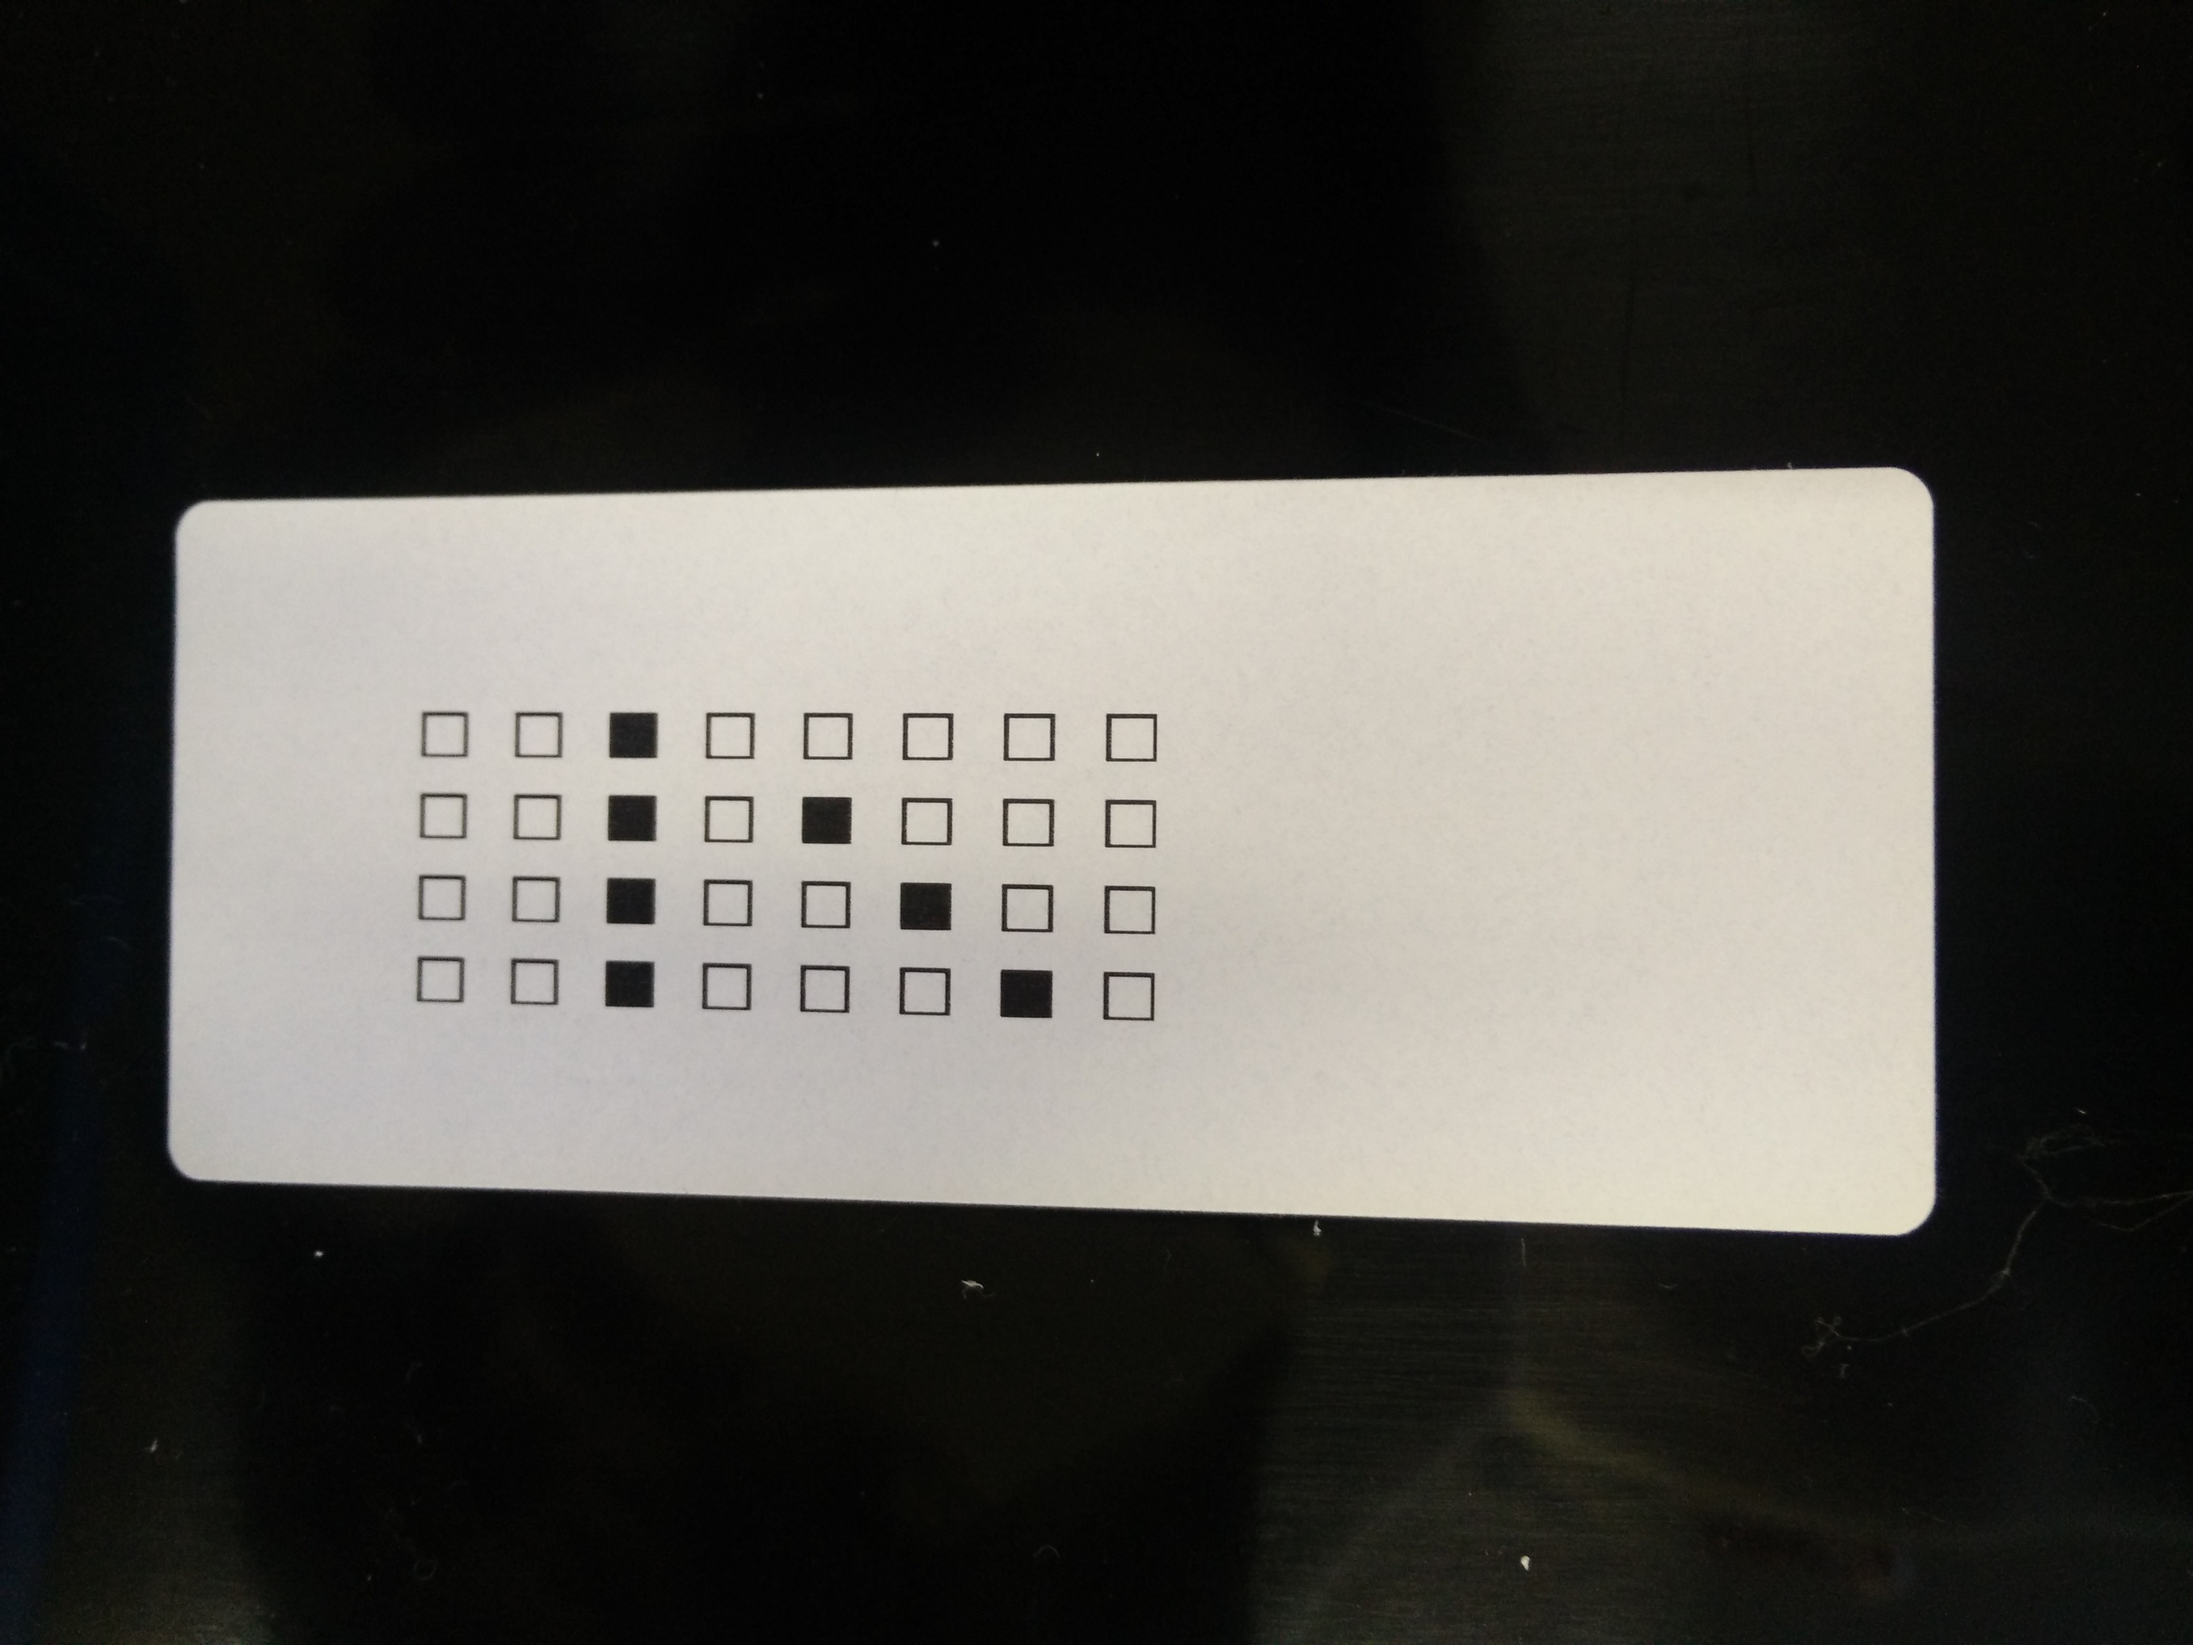
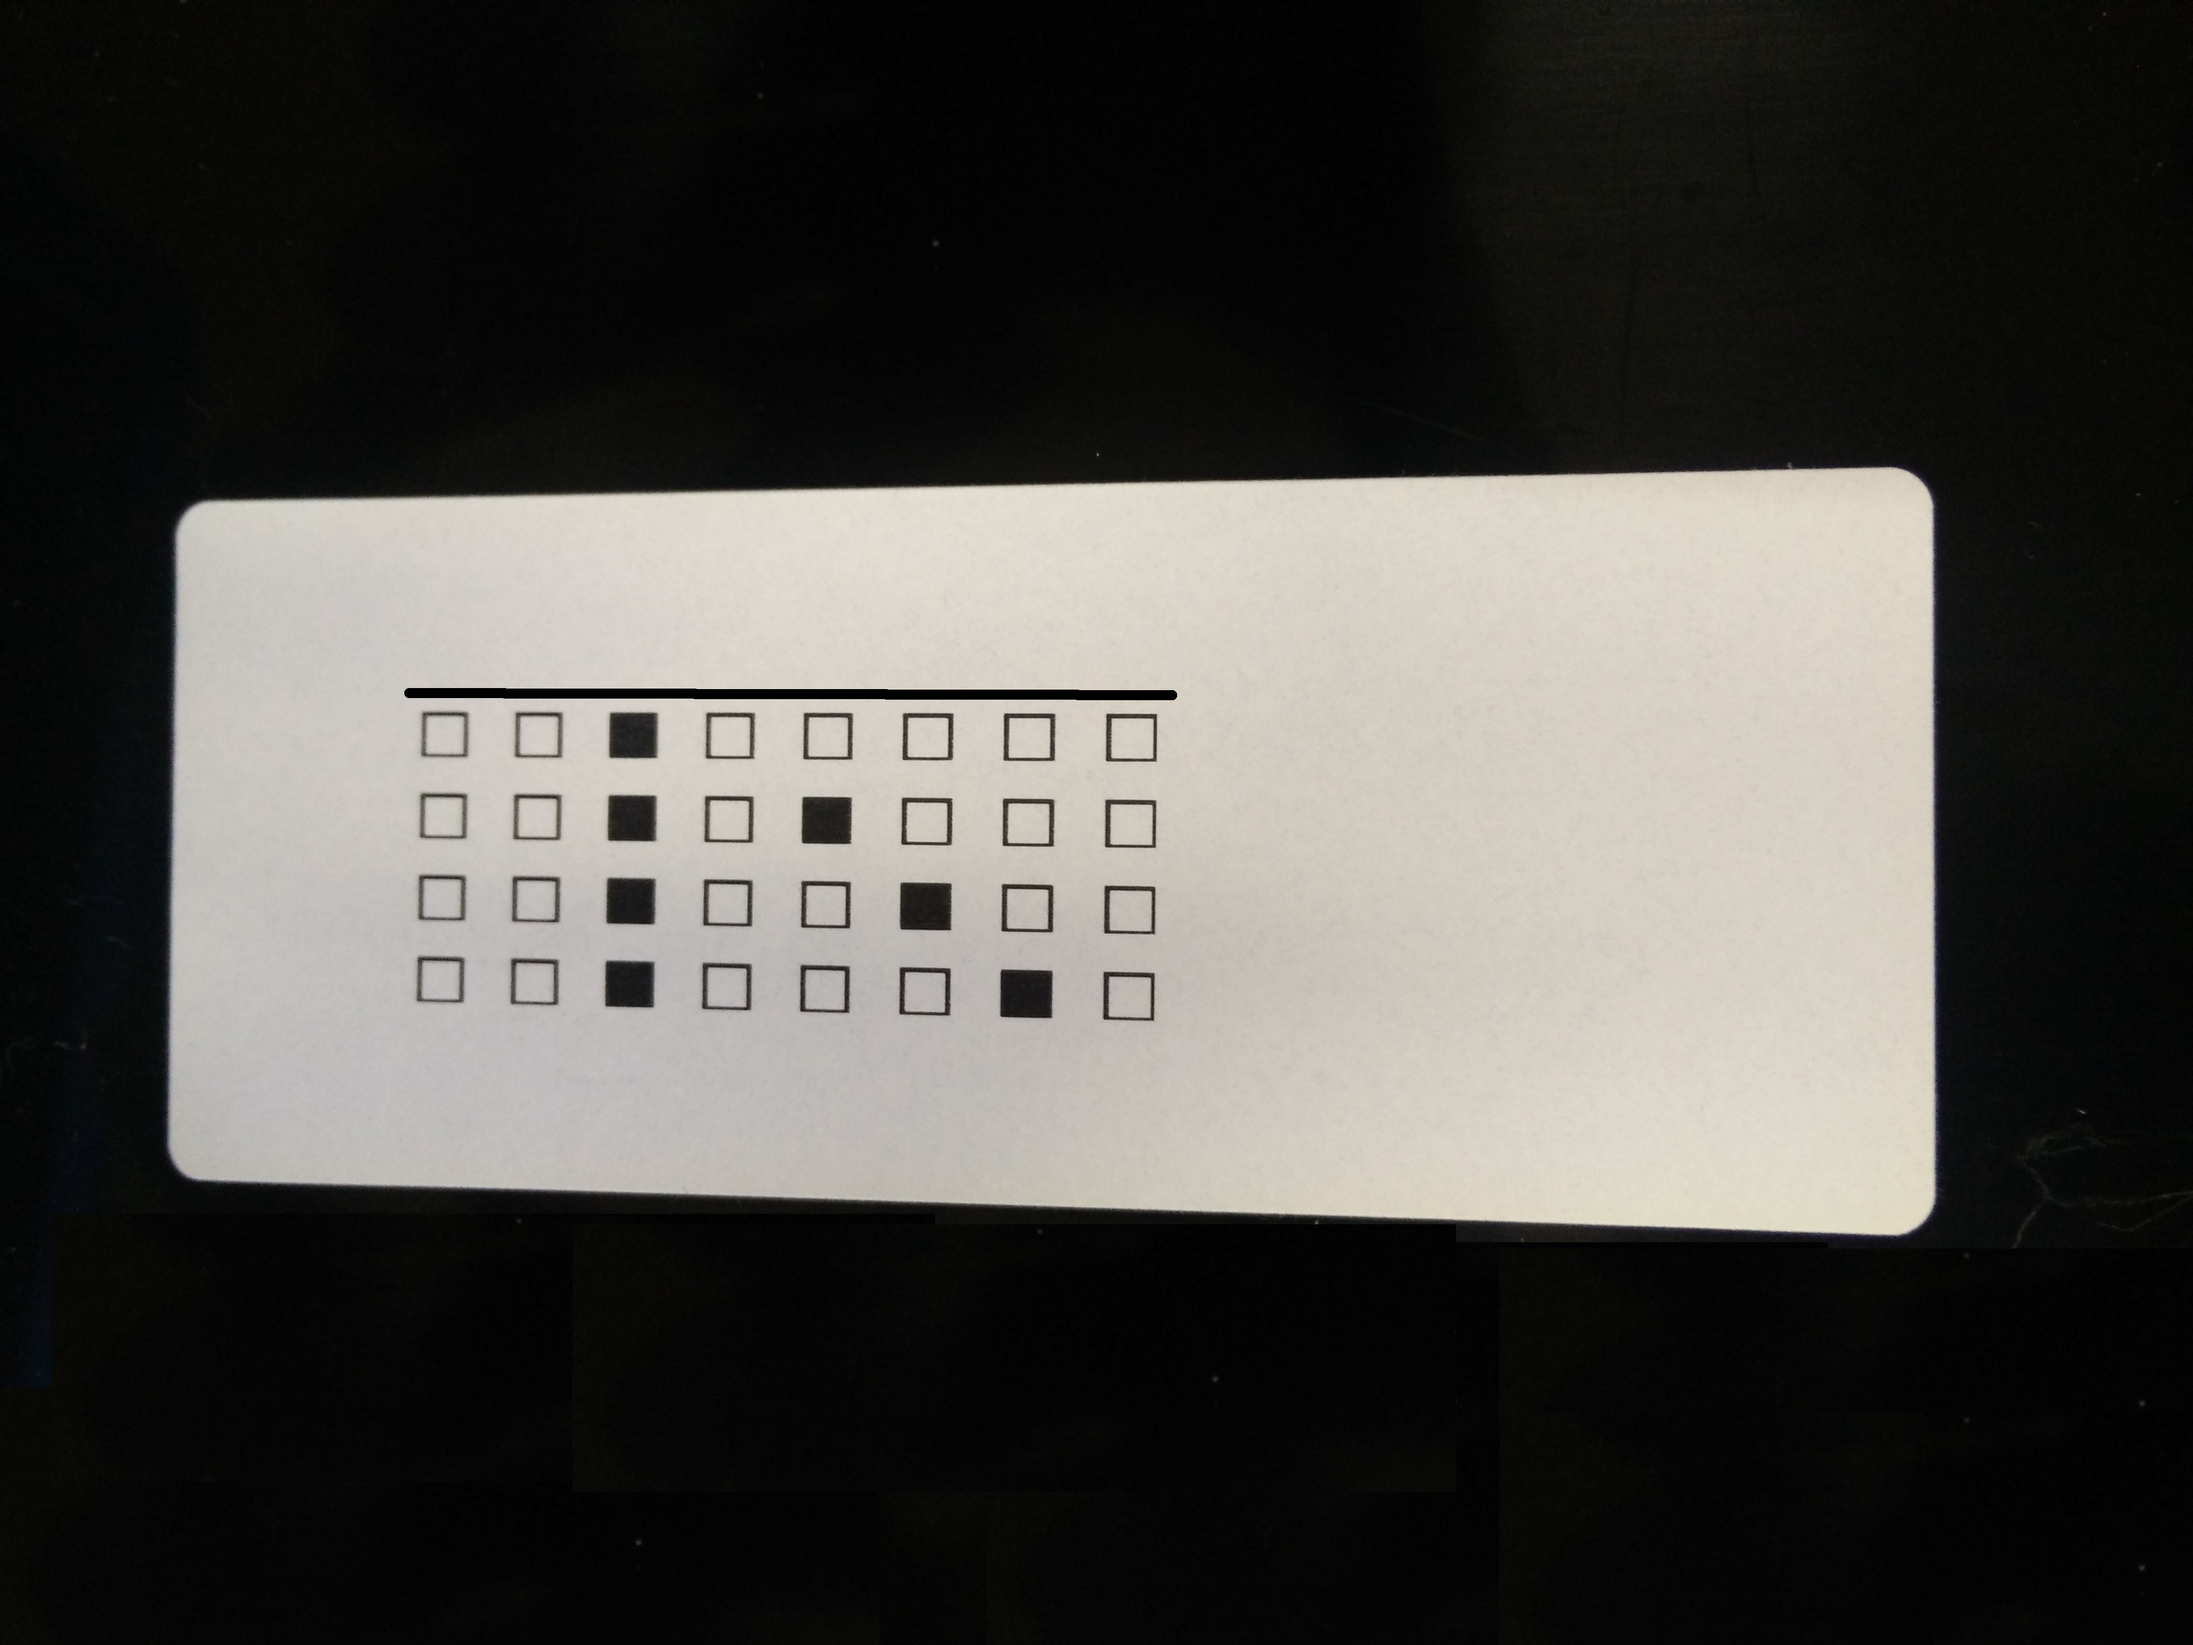
progress

diff --git a/main.js b/main.js
@@ -1,26 +1,21 @@
-const COLUMNS = 8
-const ROWS = 4
-const SPACINGWIDTH = 190
-const SPACINGHEIGHT = 160
-const OFFSETWIDTH = 10
-const OFFSETHEIGHT = 25
+const SAMPLE_NUMBER = 5;
 
 var getPixels = require("get-pixels")
 
-getPixels("images/test_image3.jpg", function(err, pixels) {
+getPixels("images/test_horiz.jpg", function(err, pixels) {
 	
 	if(err) {
 		console.log("Bad image path");
 		return;
 	}
-	console.log(pixels);
+	console.log("LOAD");
 	scan(pixels);
 
 });
 
 function getState(colourcode) {
 
-	if(colourcode > 128) {
+	if(colourcode > 120) {
 		return "white"
 	} else {
 		return "black"
@@ -40,142 +35,151 @@ var xTickInc = 10;
 var yTickInc = 32;
 
 function scan(pixels) {
-	var imageWidth = pixels.shape[0]
-	var imageHeight = pixels.shape[1]
-
-
-	var countX = 10;
-	var countY = 5;
-
-	var stepsX = ~~(imageWidth / countX);
-	var stepsY = ~~(imageHeight / countY);
-
-
-
-	//Take "strips" at regular intervals and average the colours.
-	//Because we know that the first two strips will both be solid black we can then measure the distance between average peaks.
-	var all_active_peak = 150;
-					//x, y, val
-	var first_peak = null;
-	var second_peak = null;
-
-	for(let i = 0; i < stepsX; i++) {
-		let strip = pixels.pick(i * countX, null, null);
-		let sum = 0;
-		let firstHit = 0;
-		for(let j = 0; j < stepsY; j++) {
-			var curCol = getPixelFromStrip(strip, j * countY);
-
-			//Get the "y" index of the first black hit on the y axis
-			if(getState(curCol) == "black" && firstHit == 0) {
-				firstHit = j * countY;
-			}
-
-			//add to the average sum
-			sum += curCol;
-		}
-
-		//calculate the pixel colour average.
-		var avg = Math.floor(sum / stepsY);
-
-
-		//If the average for the row is one which indicates the whole row is made up of black squares
-		if(avg < all_active_peak) {
-
-			//If the position of the first all black row isn't known
-			if(first_peak === null) {
-				first_peak = [i * countX, firstHit, avg];
-			} else {
-				//Check in the middle of the two for white (if white then different cols)
-				var xDiff = ~~(((i * countX) - first_peak[0]) * 0.5);
-				var strip_sec = pixels.pick(first_peak[0] + xDiff, null, null);
-				var check = getState(getPixelFromStrip(strip_sec, first_peak[1]));
-
-				if(check == "white") {
-					second_peak = [i * countX, first_peak[1], avg];
-					
-					//Terminate the whole loop when second match found
-					j = stepsY + 1;
-					i = stepsX + 1;
-				}
-			}
-		}
-	};
-
-	// var xNear = getPixel(pixel, first_peak[0], first_peak[1]);
-	// var temp_x = first_peak[0];
-
-
-	// while(getState(xNear) == "black") {
-	// 	xNear = getPixel(pixel)
-
-	// }
-
-
-	//Find the distance between the adjacent peaks, assume that the distance is the same for the rest of the columns.
-	var distance = Math.abs(second_peak[0] - first_peak[0]);
-	var offset = first_peak[1];
-
-	var x_steps = 9;
-	var y_steps = 4;
-
-	var step_size = distance;
-
-
-	for(var x = 2; x < x_steps; x += 1) {
-		
-		var relative_x = ~~(step_size * 1.05 * x + first_peak[0]);
-
-		for(var y = 0; y < y_steps; y += 1) {	
-			var relative_y = ~~((step_size * 1.2) * y + offset);
-
-			var strip = pixels.pick(relative_x, null, null);
-			var curCol = getPixelFromStrip(strip, relative_y);
-
-			console.log(curCol);
-
-
-		}
-		console.log("BREAK")
-	}
+	let imageWidth = pixels.shape[0];
+	let imageHeight = pixels.shape[1];
 	
+	let s_x = 0;
+	
+	
+	let scale_x = Math.floor(imageWidth / SAMPLE_NUMBER);
+
+	//Traverse across in the y direction checking for "the line".
+	var responses = [];
+	for(let i = 0; i < SAMPLE_NUMBER; i++) {
+		let column_info = pixels.pick(i * scale_x, null, null);
+		var response = traverseDown(column_info, imageHeight);
+		responses.push([i * scale_x, response]);
+	}
+
+	//TODO: Find the best column to move from
 
 
-//	console.log(first_peak, second_peak);
+	var colToMove = responses[2];
+	console.log(traverseAcross(pixels, colToMove[0], colToMove[1]));
 
 
 
 
+}
+
+function traverseAcross(data, s_x, s_y) {
+	
+	let belowColour = 0;
+	let tickColour = 255;
+	var tick_x = s_x;
+	var tick_y = s_y - 20;
+
+	var fixed_above = s_y - 20;
+
+	var line_coords = [];
+
+	//While we're hitting black 
+	while(getState(belowColour) == "black") {
+		var current_colour = getPixel(data, tick_x, tick_y);
+	
+		if(tick_y > s_y + 100) {
+			belowColour = 255;
+		}
+
+		if(getState(current_colour) == "white") {
+			tick_y++;
+		} else {
+			tick_x++;
+			tick_y = fixed_above;
+	
+		}
+	}
+ 	
+ 	line_coords[0] = tick_x;
+
+ 	belowColour = 0;
+	tick_x = s_x;
+	tick_y = s_y - 20;
+
+	while(getState(belowColour) == "black") {
+		var current_colour = getPixel(data, tick_x, tick_y);
+	
+		if(tick_y > s_y + 100) {
+			belowColour = 255;
+		}
 
 
-	// var labelBeginCoords = [0,0];
-	// var labelEndCoords = [0,0];
+		if(getState(current_colour) == "white") {
+			tick_y++;
+		} else {
+			tick_x--;
+			tick_y = fixed_above;
+	
+		}
+	}
 
-	// //Find the start of the label
-	// var currentColour = getPixel(pixels, 0, 0);
-	// var tickX = 0;
-	// var tickY = 0;
+	line_coords[1] = tick_x;
 
-	// while(getState(currentColour) == "black") {
-	// 	tickY += yTickInc;
-	// 	currentColour = getPixel(pixels, tickX, tickY);
 
-	// 	if(tickY > imageHeight) {
-	// 		tickX += xTickInc;
-	// 		tickY = 0;
+	return line_coords;
+
+
+	// let offset_y = 20;
+	// let cur_x = 0;
+	// let cur_y = 0;
+	// let colour = 0;
+	// let origin_x = s_x;
+	// let origin_y = s_y;
+	// let left_x, right_x;
+
+	// while(!left_x) {
+	// 	cur_x -= 1;
+	// 	cur_y = origin_y - 25;
+
+	// 	while(getPixel(data, cur_x, cur_y) == "black") {
+	// 		if (cur_y > origin_y + 20) {
+	// 			left_x = cur_x;
+	// 			break;
+	// 		}
+	// 		else{
+	// 			cur_y++;
+	// 		}
 	// 	}
 	// }
 
-	// labelBeginCoords = [tickX, tickY];
+	// while(!right_x) {
+	// 	cur_x += 1;
+	// 	cur_y = origin_y - 25;
 
-
-	// while(getState(currentColour) == "white") {
-	// 	tickX += xTickInc;
-	// 	currentColour = getPixel(pixels, tickX, tickY);
+	// 	while(getPixel(data, cur_x, cur_y) == "black") {
+	// 		if (cur_y > origin_y + 20) {
+	// 			right_x = cur_x;
+	// 			break;
+	// 		}
+	// 		else{
+	// 			cur_y++;
+	// 		}
+	// 	}
 	// }
+}
 
-	// labelEndCoords = [tickX, tickY];
 
-	// console.log("Label found at: " + labelBeginCoords);
-	// console.log("End of label found at: " + labelEndCoords);
+function traverseDown(data, h) {
+	let downwardsColour = 0;
+	let s_y = 0;
+	
+	while(getState(downwardsColour) == "black") {
+		s_y += 1;
+		downwardsColour = getPixelFromStrip(data, s_y);
+
+		if(s_y > h) {
+			return;
+		}
+	}
+
+	while(getState(downwardsColour) == "white") {
+		s_y += 1;
+		downwardsColour = getPixelFromStrip(data, s_y);
+
+		if(s_y > h) {
+			return;
+		}
+	}
+
+	return s_y;
 }
